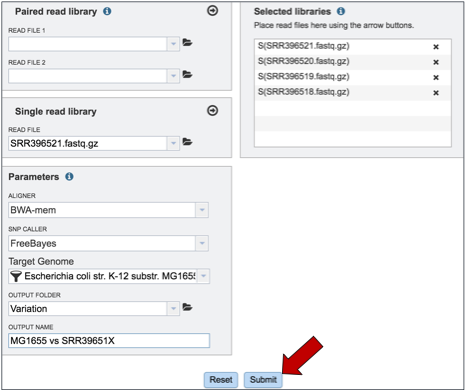
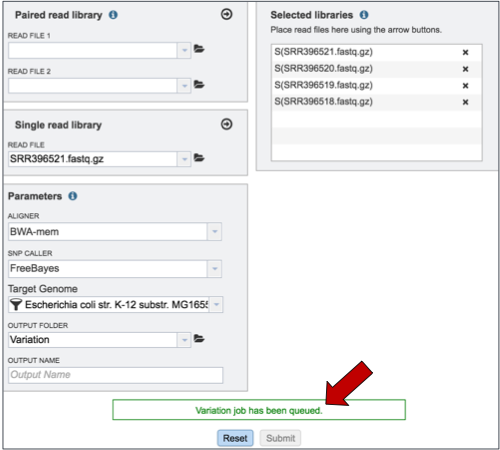
update variation analysis service

diff --git a/docroot/tutorial/variation_analysis_service/variation_analysis_service.md b/docroot/tutorial/variation_analysis_service/variation_analysis_service.md
@@ -1,135 +1,144 @@
-# Variation Analysis Service
+# Submitting a Variant analysis job at PATRIC
 
-## Submitting a Variant Analysis job at PATRIC
-
-### I. Locating the Variant Service App
-
-1. At the top of any PATRIC page, find the Services tab.
+## I. Locating the Variant Service App
+1. At the top of any PATRIC page, find the Services tab. Click on Variant analysis.
 ![Step 1](./images/image1.png)
 
-2.  Click on Variant analysis (red arrow).
+2. This will open up the Variant Analysis landing page where researchers can submit single or paired read files.
 ![Step 2](./images/image2.png)
 
-3.  This will open up the Variant Analysis landing page where researchers can submit single or paired read files.
-![Step 3](./images/image3.png)
+## II. Loading the Reads-Paired end
+1. Information on any page is available by clicking on the blue icon (red arrow). This will open an information box 
+![Step 2](./images/image3.png)
 
-### II. Loading the Reads-Paired end
+2. To upload paired reads for analysis, click on the down arrow that follows the text box (red arrow). This will open a drop down box where reads that have been uploaded to PATRIC can be selected (black arrow).
+![Step 4](./images/image4.png)
 
-1.  Information on any page is available by clicking on the blue icon (red arrow).  This will open an information box
-![Step 4](./images/image4.png) 
+3. Once selected, the name will appear under the read file. To load the second half of the pair, repeat the process for Read File 2.
+![Step 5](./images/image5.png)
 
-2.  To upload paired reads for analysis, click on the down arrow that follows the text box (red arrow).  This will open a drop down box where reads that have been uploaded to PATRIC can be selected (black arrow).
-![Step 5](./images/image5.png) 
+4. Once both halves are selected, click on the arrow icon in the Paired read library box (red arrow). This will load the reads (shown together in the same line for paired reads) into the Selected libraries panel.
+![Step 6](./images/image6.png)
 
-3.  Once selected, the name will appear under the read file.  To load the second half of the pair, repeat the process for Read File 2.
-![Step 6](./images/image6.png) 
+## III. Loading the Reads-Single read
+1. To upload single reads for analysis, click on the down arrow that follows the text box (red arrow). This will open a drop down box where reads that have been uploaded to PATRIC can be selected (black arrow).
+![Step 7](./images/image7.png)
 
-4. Once both halves are selected, click on the arrow icon in the Paired read library box (red arrow).  This will load the reads (shown together in the same line for paired reads) into the Selected libraries panel.
-![Step 7](./images/image7.png) 
-
-### III. Loading the Reads-Single read
-
-1.	 To upload single reads for analysis, click on the down arrow that follows the text box (red arrow).  This will open a drop down box where reads that have been uploaded to PATRIC can be selected (black arrow).
+2. Once selected, the name will appear under the read file. Click on the arrow icon in the Single read library box (red arrow). This will load the reads into the Selected libraries panel.
 ![Step 8](./images/image8.png) 
 
-2.	Once selected, the name will appear under the read file.  Click on the arrow icon in the Single read library box (red arrow).  This will load the reads into the Selected libraries panel.
-![Step 9](./images/image9.png) 
+3. Repeat to add additional files to the analysis.
+![Step 9](./images/image9.png)
 
-3.	Repeat to add additional files to the analysis.
-![Step 10](./images/image10.png) 
+## IV. Filling in parameters
+1. PATRIC offers several types of aligners and SNP callers that can be used for comparison. The Variant analysis service has BWA-mem as the default. To see the other choices of aligners that can be used, click on the down arrow at the end of the Aligner text box (red arrow). This will open a drop down box that shows all the available programs. A description of each program is provided below the screenshot.
+![Step 10](./images/image10.png)
 
-### IV. Filling in parameters
+- **BWA-MEM** is a new alignment algorithm for aligning sequence reads or long query sequences against a large reference genome such as human. It automatically chooses between local and end-to-end alignments, supports paired-end reads and performs chimeric alignment. The algorithm is robust to sequencing errors and applicable to a wide range of sequence lengths from 70bp to a few megabases. For mapping 100bp sequences, BWA-MEM shows better performance than several state-of-art read aligners to date(1). 
+- **BWA-mem-strict** is BWA-mem with the default parameters plus "-B9 -O16" to increase the gap extension and clipping penalty. These strict mapping parameters are recommended for cases where contigs and references are known to be very close to each other.
+- **Bowtie2**, a method that combines the advantages of the full-text minute index and SIMD dynamic programming, achieves very fast and memory-efficient gapped alignment of sequencing reads. It improves on the previous Bowtie method in terms of speed and fraction of reads aligned and is substantially faster than non–full-text minute index–based approaches while aligning a comparable fraction of reads.  Bowtie 2 performs sensitive gapped alignment without incurring serious computational penalties(2).
+- **MOSAIK** can align reads generated by all the major sequencing technologies, including Illumina, Applied Biosystems SOLiD, Roche 454, Ion Torrent and Pacific BioSciences SMRT. To provide highly accurate alignments, MOSAIK employs a hash clustering strategy coupled with the Smith-Waterman algorithm. This method is well-suited to capture mismatches as well as short insertions and deletions. To support the growing interest in larger structural variant (SV) discovery, MOSAIK provides explicit support for handling known-sequence SVs, e.g. mobile element insertions (MEIs) as well as generating outputs tailored to aid in SV discovery. MOSAIK uses a neural-network based training scheme to provide well-calibrated mapping quality scores(3).
+- **LAST** can handle big sequence data, like comparing two vertebrate genomes. It can align billions of DNA reads to a genome, and will indicate reliability of each aligned column. In addition, it can compare DNA to proteins, with frameshifts, compare PSSMs to sequences, calculates the likelihood of chance similarities between random sequences, does split and spliced alignment, and can be trained for unusual kinds of sequences (like nanopore)(4).
 
-1.	 PATRIC offers several types of aligners and SNP callers that can be used for comparison.  The Variant analysis service has BWA-mem as the default.  To see the other choices of aligners that can be used, click on the down arrow at the end of the Aligner text box (red arrow). This will open a drop down box that shows all the available programs.  A description of each program is provided below the screenshot.
-![Step 11](./images/image11.png) 
+2. PATRIC also offers a choice of SNP callers. The default selection is for FreeBayes. To see the other available choices, click on the down arrow that follows the SNP Caller text box (red arrow). This will open a drop down box that shows all the available programs. A description of each program is provided below the screenshot.
+![Step 11](./images/image11.png)
 
-* BWA-MEM is a new alignment algorithm for aligning sequence reads or long query sequences against a large reference genome such as human. It automatically chooses between local and end-to-end alignments, supports paired-end reads and performs chimeric alignment. The algorithm is robust to sequencing errors and applicable to a wide range of sequence lengths from 70bp to a few megabases. For mapping 100bp sequences, BWA-MEM shows better performance than several state-of-art read aligners to date(1). 
+- **FreeBayes** is an accurate method for sequence organization that includes fragment clustering, paralogue identification and multiple alignment. It calculates the probability that a given site is polymorphic and has an automated evaluation of the full length of all sequences, without limitations on alignment depth(5).
+- **The Sequence Alignment/Map (SAM)** format is a generic alignment format for storing read alignments against reference sequences. SAMtools implements various utilities for post-processing alignments in the SAM format, such as indexing, variant caller and alignment viewer, and thus provides universal tools for processing read alignments(6). The SAMtools option invokes the BCFtools’ SNP calling algorithm on top of SAMtools’ mpileup result.
+Either SNP caller is run with the default parameters. The raw SNPs are then filtered by SNP quality (QUAL>10) and read depth (DP>5) to keep only the high-quality SNPs.
 
-* Bowtie2, a method that combines the advantages of the full-text minute index and SIMD dynamic programming, achieves very fast and memory-efficient gapped alignment of sequencing reads. It improves on the previous Bowtie method in terms of speed and fraction of reads aligned and is substantially faster than non–full-text minute index–based approaches while aligning a comparable fraction of reads.   Bowtie 2 performs sensitive gapped alignment without incurring serious computational penalties(2).
+3. Researchers must select a Target Genome to align the reads against. If this genome is a private genome, the search can be narrowed by clicking on the filter icon under the words Target Genome (red arrow). This will open the filter where Public Genomes can be de-selected (blue arrow).
+![Step 12](./images/image12.png)
 
-* MOSAIK can align reads generated by all the major sequencing technologies, including Illumina, Applied Biosystems SOLiD, Roche 454, Ion Torrent and Pacific BioSciences SMRT.  To provide highly accurate alignments, MOSAIK employs a hash clustering strategy coupled with the Smith-Waterman algorithm. This method is well-suited to capture mismatches as well as short insertions and deletions. To support the growing interest in larger structural variant (SV) discovery, MOSAIK provides explicit support for handling known-sequence SVs, e.g. mobile element insertions (MEIs) as well as generating outputs tailored to aid in SV discovery.  MOSAIK uses a neural-network based training scheme to provide well-calibrated mapping quality scores(3).
-
-* LAST can handle big sequence data, like comparing two vertebrate genomes.  It can align billions of DNA reads to a genome, and will indicate reliability of each aligned column.  In addition, it can compare DNA to proteins, with frameshifts, compare PSSMs to sequences, calculates the likelihood of chance similarities between random sequences, does split and spliced alignment, and can be trained for unusual kinds of sequences (like nanopore)(4).
-
-2.	 PATRIC also offers a choice of SNP callers.  The default selection is for FreeBayes.  To see the other available choices, click on the down arrow that follows the SNP Caller text box (red arrow).  This will open a drop down box that shows all the available programs.  A description of each program is provided below the screenshot.
-![Step 12](./images/image12.png) 
-
-* FreeBayes is an accurate method for sequence organization that includes fragment clustering, paralogue identification and multiple alignment. It calculates the probability that a given site is polymorphic and has an automated evaluation of the full length of all sequences, without limitations on alignment depth(5).
-
-* The Sequence Alignment/Map (SAM) format is a generic alignment format for storing read alignments against reference sequences, supporting short and long reads (up to 128 Mbp) produced by different sequencing platforms. It is flexible in style, compact in size, efficient in random access and is the format in which alignments from the 1000 Genomes Project are released. SAMtools implements various utilities for post-processing alignments in the SAM format, such as indexing, variant caller and alignment viewer, and thus provides universal tools for processing read alignments(6).
-
-3.	Researchers must select a Target Genome to align the reads against.  If this genome is a private genome, the search can be narrowed by clicking on the filter icon under the words Target Genome (red arrow).  This will open the filter where Public Genomes can be de-selected (blue arrow).
+4. To select a reference genome, start typing the name of a genome. A box below Target Genome will show the closest matches that can be selected.
 ![Step 13](./images/image13.png)
 
-4.	To select a reference genome, start typing the name of a genome.  A box below Target Genome will show the closest matches that can be selected.
+5. Researchers that have used PATRIC before can click on the down arrow at the end of the Output Folder text box. This will open a dropdown box that will show the folders that exist in the workspace (red arrow).
 ![Step 14](./images/image14.png)
 
-5.	Researchers that have used PATRIC before can click on the down arrow at the end of the Output Folder text box.  This will open a dropdown box that will show the folders that exist in the workspace (red arrow).
+6. Finally, researchers must name the Variant analysis job (red arrow).
 ![Step 15](./images/image15.png)
 
-6.	Finally, researchers must name the Variant analysis job (red arrow).
+## V. Submitting the Variant Service Job
+1. To submit the completed job, click the Submit button (red arrow).
 ![Step 16](./images/image16.png)
 
-### V. Submitting the Variant Service Job
-
-1. To submit the completed job, click the Submit button (red arrow).
+2. If the job was submitted successfully, a message will appear that indicates that the job has entered the assembly queue.
 ![Step 17](./images/image17.png)
 
-2.	If the job was submitted successfully, a message will appear that indicates that the job has entered the assembly queue.
+3. To check the status of the assembly job, click on the Jobs indicator at the bottom of the PATRIC page.
 ![Step 18](./images/image18.png)
 
-3.	To check the status of the assembly job, click on the Jobs indicator at the bottom of the PATRIC page.
+4. Clicking on Jobs opens the Jobs Status page, where researchers can see the progression of the assembly job as well as the status of all the previous service jobs that have been submitted.
 ![Step 19](./images/image19.png)
 
-4.	Clicking on Jobs opens the Jobs Status page, where researchers can see the progression of the assembly job as well as the status of all the previous service jobs that have been submitted.
+## VI. Viewing the Variant analysis 
+1. From the jobs page, click on a row to select the variant analysis job of interest. Once selected, the downstream processes available for the selection appear in the vertical green bar. Each variant analysis job will only have one option, which is View (red arrow). Clicking on the View icon will open the variant analysis job summary page.
 ![Step 20](./images/image20.png)
 
-### VI. Viewing the Variant Analysis
-
-1.	From the jobs page, click on a row to select the variant analysis job of interest. Once selected, the downstream processes available for the selection appear in the vertical green bar.  Each variant analysis job will only have one option, which is View (red arrow).  Clicking on the View icon will open the variant analysis job summary page.
+2. The variant analysis job summary page provides researchers with a cornucopia of files that can be downloaded, viewed, and examined for further analysis.
 ![Step 21](./images/image21.png)
 
-2.	The variant analysis job summary page provides researchers with a cornucopia of files that can be downloaded, viewed, and examined for further analysis.
+3. Bam files. The Binary Alignment/Map (BAM) is the companion format of the Sequence Alignment/Map (SAM) format(6). A SAM file (.sam) is a tab-delimited text file that contains sequence alignment data. The .bam format is compact in size and supports fast retrieval of alignments in specified regions. It is optimal for viewing in a genome browser. The PATRIC variant analysis service provides a .bam file for each of the read libraries that were loaded.
 ![Step 22](./images/image22.png)
 
-3.	**Bam files:** The Binary Alignment/Map (BAM) is the companion format of the Sequence Alignment/Map (SAM) format(6).  A SAM file (.sam) is a tab-delimited text file that contains sequence alignment data.  The .bam format is compact in size and supports fast retrieval of alignments in specified regions. It is optimal for viewing in a genome browser.  The PATRIC variant analysis service provides a .bam file for each of the read libraries that were loaded.
+4a. Tab Separated Values (tsv). The PATRIC variant analysis service provides a .tsv file for each of the read libraries that were loaded. It summaries the locations of the variants, shows the nucleotide change, and identifies if it was a synonymous or nonsynonymous substitution, or an indel. It also identifies the gene, or intergenic region, where the variation occurred.
 ![Step 23](./images/image23.png)
 
-4a. **Tab Separated Values (.tsv):**  The PATRIC variant analysis service provides a .tsv file for each of the read libraries that were loaded. It summaries the locations of the variants, shows the nucleotide change, and identifies if it was a synonymous or nonsynonymous substitution, or an indel.  It also identifies the gene, or intergenic region, where the variation occurred.
+4b. These files can be opened using excel to easily see the different variants.
 ![Step 24](./images/image24.png)
 
-4b. These files can be opened using excel to easily see the different variants.
+5. The lbs.txt file. This is a text file that describes the libraries used in the comparison.
 ![Step 25](./images/image25.png)
 
-5.	**The lbs.txt file:**  This is a text file that describes the libraries used in the comparison.
+6. The summary.txt files. This file provides a summary of the analysis. For each library it shows the number of reads, those that mapped to the reference, the number of bases in the reference, the median base coverage, bases with zero coverage, bases with less than (or equal to) 10 reads coverage, the raw variants that are detected by the variation calling tool, and those variants that have a high quality score.
 ![Step 26](./images/image26.png)
 
-6.	**The summary.txt files:**  This file provides a summary of the analysis.  For each library it shows the number of reads, those that mapped to the reference, the number of bases in the reference, the median base coverage, bases with zero coverage, bases with less than (or equal to) 10 reads coverage, the raw variants that are detected by the variation calling tool, and those variants that have a high quality score.
+7. The var.snpEFF.vcf files. SnpEff rapidly categorizing the effects of variants in genome sequences. Once a genome is sequenced, SnpEff annotates variants based on their genomic locations and predicts coding effects. Annotated genomic locations include intronic, untranslated region, upstream, downstream, splice site, or intergenic regions. Coding effects such as synonymous or non-synonymous amino acid replacement, start codon gains or losses, stop codon gains or losses, or frame shifts can be predicted(7). Below is an example, with the effects highlighted in the red boxes. The PATRIC variant analysis service provides a .var.snpEFF.vcf file for each of the read libraries that were loaded.
 ![Step 27](./images/image27.png)
 
-7.	**The var.snpEFF.vcf files:**  SnpEff rapidly categorizing the effects of variants in genome sequences. Once a genome is sequenced, SnpEff annotates variants based on their genomic locations and predicts coding effects. Annotated genomic locations include intronic, untranslated region, upstream, downstream, splice site, or intergenic regions. Coding effects such as synonymous or non-synonymous amino acid replacement, start codon gains or losses, stop codon gains or losses, or frame shifts can be predicted(7). Below is an example, with the effects highlighted in the red boxes.  The PATRIC variant analysis service provides a .var.snpEFF.vcf file for each of the read libraries that were loaded.
+8. The var.snp.vcf files. These files show the location of the snp on the genome. The PATRIC variant analysis service provides a .var.snp.vcf file for each of the read libraries that were loaded.
 ![Step 28](./images/image28.png)
 
-8.	The var.snp.vcf files.  These files show the location of the snp on the genome.  The PATRIC variant analysis service provides a .var.snp.vcf file for each of the read libraries that were loaded.
+9. The .html file. The HyperText Markup Language (HTML) file will open a webpage that shows the same data available in the .tsv file. This table can be sorted by clicking on the column headers.
 ![Step 29](./images/image29.png)
 
-9.	**The .html file:**  The HyperText Markup Language (HTML) file will open a webpage that shows the same data available in the .tsv file.
+10.The var.vcf.gz.tbi file. This is a file that can be uploaded into a genome browser for viewing. The PATRIC variant analysis service provides a .var.vcf.gz.tbi file for each of the read libraries that were loaded.
+
+## VII. Viewing snps on the genome browser
+1. To get to the Jobs page, click on Jobs in the lower right corner.
 ![Step 30](./images/image30.png)
 
-10.	**The var.vcf.gz.tbi file:**  This is a file that can be uploaded into a genome browser for viewing.  The PATRIC variant analysis service provides a .var.vcf.gz.tbi file for each of the read libraries that were loaded.
+2. This will open the jobs page. Click on the Variation job of interest.
+![Step 31](./images/image31.png)
+
+3. Once a job is selected, click on the View icon that has appeared in the vertical green bar.
+![Step 32](./images/image32.png)
+
+4. This will open the landing page for that particular job. To see the genome browser, where the results of the variation job can be summarized, click on the Browser icon that is visible in the upper right corner of the page
+![Step 33](./images/image33.png)
+
+5. This will open the genome browser for the genome that was selected as the reference. There is a box on the left of the browser that shows the available tracks. To see the location of the particular snps, mnps or indels, click on the check boxes before in front of the names that end in var.vcf.gz.
+![Step 34](./images/image34.png)
+
+6. This will add tracks that show the snps that were called, although scrolling down the length of the genome may be required to see them.
+![Step 35](./images/image35.png)
+
+7. To zoom in and see the six-frame translation and nucleotides, find the magnifying glass icons immediately above the browser. Click on the one that has a plus side in it. Zooming will need to take place in steps.
+![Step 36](./images/image36.png)
+
+8. After several clicks of the magnifying icon, the six-frame translation and nucleotides will be visible.
+![Step 37](./images/image37.png)
+
+9. To see how predictive the individual calls are, click on the track that ends in aln.bam. This will show the individual reads. Where the snp was called, the column in the bam file will show, by indication of color, what the variation pipeline called. Red corresponds to T, yellow to G, blue to C and green to A.
+![Step 38](./images/image38.png)
 
 ## References
-1.	Li, H. (2014) Towards better understanding of artifacts in variant calling from high-coverage samples. Bioinformatics, btu356.
-
-2.	Langmead, B. and Salzberg, S.L. (2012) Fast gapped-read alignment with Bowtie 2. Nat Methods, 9, 357-359.
-
-3.	Lee, W.P., Stromberg, M.P., Ward, A., Stewart, C., Garrison, E.P. and Marth, G.T. (2014) MOSAIK: a hash-based algorithm for accurate next-generation sequencing short-read mapping. PLoS One, 9, e90581.
-
-4.	Frith, M.C., Hamada, M. and Horton, P. (2010) Parameters for accurate genome alignment. BMC bioinformatics, 11, 1.
-
-5.	Marth, G.T., Korf, I., Yandell, M.D., Yeh, R.T., Gu, Z., Zakeri, H., Stitziel, N.O., Hillier, L., Kwok, P.-Y. and Gish, W.R. (1999) A general approach to single-nucleotide polymorphism discovery. Nature genetics, 23, 452-456.
-
-6.	Li, H., Handsaker, B., Wysoker, A., Fennell, T., Ruan, J., Homer, N., Marth, G., Abecasis, G., Durbin, R. and Genome Project Data Processing, S. (2009) The Sequence Alignment/Map format and SAMtools. Bioinformatics, 25, 2078-2079.
-
-7.	Cingolani, P., Platts, A., Wang, L.L., Coon, M., Nguyen, T., Wang, L., Land, S.J., Lu, X. and Ruden, D.M. (2012) A program for annotating and predicting the effects of single nucleotide polymorphisms, SnpEff: SNPs in the genome of Drosophila melanogaster strain w1118; iso-2; iso-3. Fly, 6, 80-92.
+1. Li, H. (2014) Towards better understanding of artifacts in variant calling from high-coverage samples. Bioinformatics, btu356.
+2. Langmead, B. and Salzberg, S.L. (2012) Fast gapped-read alignment with Bowtie 2. Nat Methods, 9, 357-359.
+3. Lee, W.P., Stromberg, M.P., Ward, A., Stewart, C., Garrison, E.P. and Marth, G.T. (2014) MOSAIK: a hash-based algorithm for accurate next-generation sequencing short-read mapping. PLoS One, 9, e90581.
+4. Frith, M.C., Hamada, M. and Horton, P. (2010) Parameters for accurate genome alignment. BMC bioinformatics, 11, 1.
+5. Marth, G.T., Korf, I., Yandell, M.D., Yeh, R.T., Gu, Z., Zakeri, H., Stitziel, N.O., Hillier, L., Kwok, P.-Y. and Gish, W.R. (1999) A general approach to single-nucleotide polymorphism discovery. Nature genetics, 23, 452-456.
+6. Li, H., Handsaker, B., Wysoker, A., Fennell, T., Ruan, J., Homer, N., Marth, G., Abecasis, G., Durbin, R. and Genome Project Data Processing, S. (2009) The Sequence Alignment/Map format and SAMtools. Bioinformatics, 25, 2078-2079.
+7. Cingolani, P., Platts, A., Wang, L.L., Coon, M., Nguyen, T., Wang, L., Land, S.J., Lu, X. and Ruden, D.M. (2012) A program for annotating and predicting the effects of single nucleotide polymorphisms, SnpEff: SNPs in the genome of Drosophila melanogaster strain w1118; iso-2; iso-3. Fly, 6, 80-92.
 
